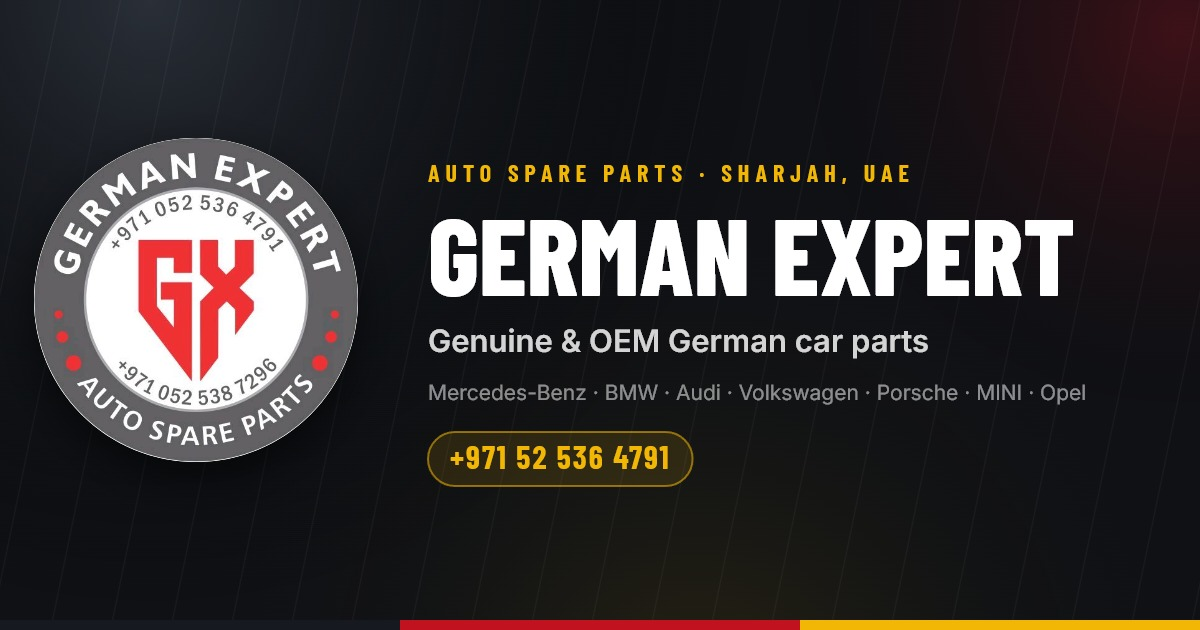
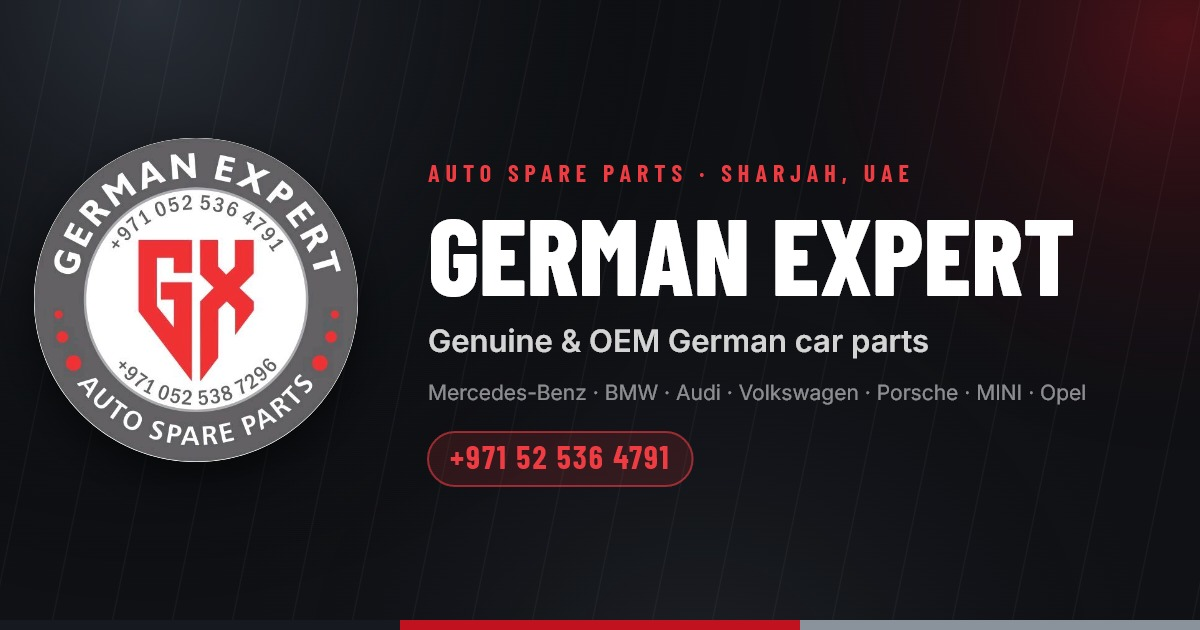
Retheme from gold to red
The logo is red, grey, white and black, and the site was gold — so the
accent now comes from the crest instead of fighting it. Surfaces were
already graphite/white/grey, so this is really gold -> red.

  --orange       #c1121f  accent on LIGHT surfaces, 6.2:1 on white
  --orange-dark  #8f0d17  hover
  --orange-light #ef3b42  brighter red for DARK surfaces, 4.5:1 on --bar
  --gold         #ef3b42  (name kept, like --orange, to avoid churn)

Two things a find-and-replace would have got wrong:

- --yellow shared gold's hex but is a STATUS colour (low stock, pending),
  so a blanket swap turned warnings red and collided with error red. It
  is now split off as amber #f59e0b and documented as not-the-accent.
- Gold is light, red is dark. Three rules set dark text on a gold
  background (hero CTA, admin login button, 404 button) and would have
  become unreadable; they now take white text on the deeper red.

The hero's studio key light was warm gold (#ffd36b), which tinted the
whole stage; it and the god rays are now neutral silver, so the hero
keeps the white/grey half of the palette rather than going all-red. The
model badge outline runs red -> white, and the share card was redrawn to
match (black/red/grey footer bar).

Checked contrast on the live DOM: hero and contact buttons 6.2:1, hero
tag 4.6:1, section tag 4.9:1, marquee 6.2:1, caption 18.9:1.

Changed region(s): [[0.37, 0.6635, 0.5858, 0.7841], [0.6475, 0.9651, 1.0, 1.0], [0.3392, 0.2413, 0.7708, 0.3016]]

diff --git a/code/css/01-base.css b/code/css/01-base.css
@@ -19,13 +19,14 @@
 }
 
 :root {
-  /* German Expert palette — graphite surfaces, brass/gold accent, German red for sale/alerts.
+  /* German Expert palette — graphite / white / grey surfaces with a single RED accent,
+     taken straight from the logo (red GX monogram on a grey ring).
      Token names are inherited from the Kuwait fork: --orange is the primary ACCENT
      (buttons with white text, accent text on light backgrounds), not literally orange. */
-  --orange: #a87b00;        /* brass: 4.8:1 against white */
-  --orange-dark: #7d5b00;
-  --orange-light: #f2b705;  /* bright German gold — for use on dark surfaces */
-  --gold: #f2b705;
+  --orange: #c1121f;        /* accent on LIGHT surfaces: 6.2:1 on white, carries white text */
+  --orange-dark: #8f0d17;
+  --orange-light: #ef3b42;  /* brighter red for DARK surfaces: 4.5:1 on --bar */
+  --gold: #ef3b42;
   --flag-red: #c1121f;
   --bar: #16191f;           /* header / footer / modal heads */
   --dark: #16191f;
@@ -39,7 +40,7 @@
   --gray-200: #dde1e6;
   --gray-400: #8a929c;
   --gray-600: #4b5563;
-  --yellow: #f2b705;
+  --yellow: #f59e0b;        /* status amber (low stock) — deliberately NOT the accent */
   --green: #16a34a;
   --red: #dc2626;
   --radius: 8px;
@@ -56,14 +57,14 @@ html { scroll-behavior: smooth; overflow-x: hidden; overflow-x: clip; touch-acti
    scroll. See _switchCategoryWithLoading in js/02-catalog-render.js. */
 .cat-load-overlay { position: fixed; inset: 0; z-index: 9000; background: var(--light); display: flex; align-items: center; justify-content: center; opacity: 0; visibility: hidden; pointer-events: none; transition: opacity .18s ease, visibility .18s ease; }
 .cat-load-overlay.show { opacity: 1; visibility: visible; pointer-events: all; }
-.cat-load-gear { display: block; width: 44px; height: 44px; border-radius: 50%; border: 5px solid var(--gray-200); border-top-color: var(--gold); border-right-color: var(--flag-red); animation: gear-spin .9s linear infinite; }
+.cat-load-gear { display: block; width: 44px; height: 44px; border-radius: 50%; border: 5px solid var(--gray-200); border-top-color: var(--gold); border-right-color: var(--charcoal); animation: gear-spin .9s linear infinite; }
 @keyframes gear-spin { to { transform: rotate(360deg); } }
 @media (prefers-reduced-motion: reduce) { .cat-load-gear { animation: none; } }
 * { touch-action: manipulation; }
 body { font-family: 'Inter', sans-serif; color: var(--dark); background: var(--light); overflow-x: hidden; overflow-x: clip; max-width: 100vw; overflow-wrap: break-word; word-break: break-word; }
 .container { max-width: 1240px; margin: 0 auto; padding: 0 24px; }
 .orange { color: var(--orange); }
-.section-tag { display: inline-block; background: rgba(168,123,0,0.09); color: var(--orange); font-size: 11px; font-weight: 700; letter-spacing: 1.5px; text-transform: uppercase; padding: 5px 14px; border-radius: 4px; margin-bottom: 10px; border: 1px solid rgba(168,123,0,0.2); }
+.section-tag { display: inline-block; background: rgba(193,18,31,0.09); color: var(--orange); font-size: 11px; font-weight: 700; letter-spacing: 1.5px; text-transform: uppercase; padding: 5px 14px; border-radius: 4px; margin-bottom: 10px; border: 1px solid rgba(193,18,31,0.2); }
 .section-header { text-align: center; margin-bottom: 48px; }
 .section-header h2 { font-size: clamp(22px, 3.5vw, 34px); font-weight: 800; color: var(--dark); line-height: 1.2; margin-top: 8px; }
 
@@ -129,7 +130,7 @@ body { font-family: 'Inter', sans-serif; color: var(--dark); background: var(--l
 /* Text on the LEFT — sits above overlay */
 .hero-content { flex: 0 0 56%; padding: 80px 40px 80px 0; padding-left: max(20px, calc((100vw - 1200px) / 2)); position: relative; z-index: 2; }
 
-.hero-tag { display: inline-flex; align-items: center; gap: 8px; background: rgba(168,123,0,0.18); color: var(--orange); font-size: 11px; font-weight: 800; letter-spacing: 2px; text-transform: uppercase; padding: 6px 14px; border-radius: 4px; margin-bottom: 22px; border: 1px solid rgba(168,123,0,0.35); }
+.hero-tag { display: inline-flex; align-items: center; gap: 8px; background: rgba(193,18,31,0.18); color: var(--orange); font-size: 11px; font-weight: 800; letter-spacing: 2px; text-transform: uppercase; padding: 6px 14px; border-radius: 4px; margin-bottom: 22px; border: 1px solid rgba(193,18,31,0.35); }
 .hero-content h1 { font-size: clamp(34px, 5.5vw, 62px); font-weight: 900; color: #fff; line-height: 1.08; margin-bottom: 18px; letter-spacing: -1px; }
 .hero-content h1 span { color: var(--orange); }
 .hero-content p { font-size: 16px; color: rgba(255,255,255,0.82); max-width: 480px; line-height: 1.75; margin-bottom: 36px; }
@@ -155,7 +156,7 @@ body { font-family: 'Inter', sans-serif; color: var(--dark); background: var(--l
 #hero .btn-primary { background: var(--orange); color: #fff; border-color: var(--orange); }
 #hero .btn-primary:hover { background: var(--orange-dark); border-color: var(--orange-dark); }
 #hero .btn-outline { color: #fff; border-color: rgba(255,255,255,0.6); }
-#hero .btn-outline:hover { background: rgba(168,123,0,0.25); border-color: #fff; color: #fff; }
+#hero .btn-outline:hover { background: rgba(193,18,31,0.25); border-color: #fff; color: #fff; }
 
 /* ── MARQUEE ─────────────────────────────────────────────────────────── */
 .marquee-wrap { background: var(--orange); padding: 11px 0; overflow: hidden; }

diff --git a/code/css/10-hero.css b/code/css/10-hero.css
@@ -22,7 +22,7 @@
 .ge-hero-bg {
   position: absolute; inset: 0; z-index: -1;
   background:
-    radial-gradient(55% 45% at 68% 80%, rgba(242,183,5,.18), transparent 70%),
+    radial-gradient(55% 45% at 68% 80%, rgba(239,59,66,.18), transparent 70%),
     radial-gradient(40% 55% at 95% 5%, rgba(193,18,31,.20), transparent 70%),
     radial-gradient(70% 80% at 15% 0%, #2b313a 0%, transparent 60%),
     linear-gradient(180deg, #16191f 0%, #0f1115 100%);
@@ -47,13 +47,13 @@
 .ge-hero:not(.no-car) .ge-hero-trust { justify-content: center; }
 
 /* ── Copy ── */
-.ge-hero-tag { display: inline-flex; align-items: center; gap: 8px; color: var(--gold); background: rgba(242,183,5,.08); border: 1px solid rgba(242,183,5,.28); font-size: 11px; font-weight: 800; letter-spacing: 2px; text-transform: uppercase; padding: 6px 14px; border-radius: 999px; margin-bottom: 22px; backdrop-filter: blur(6px); }
+.ge-hero-tag { display: inline-flex; align-items: center; gap: 8px; color: var(--gold); background: rgba(239,59,66,.08); border: 1px solid rgba(239,59,66,.28); font-size: 11px; font-weight: 800; letter-spacing: 2px; text-transform: uppercase; padding: 6px 14px; border-radius: 999px; margin-bottom: 22px; backdrop-filter: blur(6px); }
 .ge-hero-title { font-family: var(--font-display); font-weight: 800; text-transform: uppercase; font-size: clamp(40px, 4.6vw, 64px); line-height: 1; letter-spacing: .5px; margin-bottom: 20px; text-shadow: 0 4px 30px rgba(0,0,0,.45); }
 .ge-hero-title span { color: var(--gold); white-space: nowrap; }
 .ge-hero-text { font-size: 16px; line-height: 1.7; color: rgba(255,255,255,.78); max-width: 480px; margin-bottom: 32px; }
 .ge-hero-btns { display: flex; gap: 12px; flex-wrap: wrap; margin-bottom: 34px; }
-.ge-hero .btn-primary { background: var(--gold); border-color: var(--gold); color: #16191f; }
-.ge-hero .btn-primary:hover { background: #ffc928; border-color: #ffc928; }
+.ge-hero .btn-primary { background: var(--orange); border-color: var(--orange); color: #fff; }
+.ge-hero .btn-primary:hover { background: #e01b2b; border-color: #e01b2b; }
 .ge-btn-ghost { background: rgba(255,255,255,.06); color: #fff; border: 2px solid rgba(255,255,255,.35); backdrop-filter: blur(6px); }
 .ge-btn-ghost:hover { border-color: #fff; background: rgba(255,255,255,.12); }
 .ge-hero-trust { display: flex; flex-wrap: wrap; gap: 10px 22px; list-style: none; }
@@ -79,18 +79,18 @@
 .ge-car-model {
   position: absolute; left: 50%; top: 50%; transform: translate(-50%, -54%);
   width: min(96%, 1020px); height: 92%; z-index: 0; pointer-events: none; overflow: visible;
-  filter: drop-shadow(0 0 46px rgba(242, 183, 5, .14));
+  filter: drop-shadow(0 0 46px rgba(239,59,66, .14));
 }
 
 .ge-car-tilt { position: relative; z-index: 1; width: min(66%, 720px); transform-style: preserve-3d; transform: rotateX(var(--rx, 0deg)) rotateY(var(--ry, 0deg)); transition: transform .35s ease-out; }
 .ge-car-float { position: relative; animation: geCarFloat 6s ease-in-out infinite; }
 .ge-car-body { position: relative; display: block; transform: translateZ(40px); }
-.ge-car-img { display: block; width: 100%; height: auto; filter: drop-shadow(0 26px 24px rgba(0,0,0,.6)) drop-shadow(0 0 40px rgba(242,183,5,.10)); user-select: none; -webkit-user-drag: none; }
+.ge-car-img { display: block; width: 100%; height: auto; filter: drop-shadow(0 26px 24px rgba(0,0,0,.6)) drop-shadow(0 0 40px rgba(239,59,66,.10)); user-select: none; -webkit-user-drag: none; }
 /* Light sweep clipped to the car's own silhouette (mask = the same image) */
 .ge-car-sheen {
   position: absolute; inset: 0; pointer-events: none; mix-blend-mode: screen;
   -webkit-mask: var(--car) center / 100% 100% no-repeat; mask: var(--car) center / 100% 100% no-repeat;
-  background: linear-gradient(105deg, transparent 38%, rgba(255,255,255,.38) 48%, rgba(242,183,5,.22) 53%, transparent 62%);
+  background: linear-gradient(105deg, transparent 38%, rgba(255,255,255,.38) 48%, rgba(239,59,66,.22) 53%, transparent 62%);
   background-size: 300% 100%; animation: geCarSheen 6s ease-in-out infinite;
 }
 .ge-car-shadow { position: absolute; left: 10%; right: 10%; bottom: -4%; height: 16%; border-radius: 50%; background: radial-gradient(closest-side, rgba(0,0,0,.75), transparent); animation: geCarShadow 6s ease-in-out infinite; z-index: -1; }

diff --git a/code/css/07-modals.css b/code/css/07-modals.css
@@ -133,7 +133,7 @@
 .pm-badge-row { display:flex; gap:8px; margin-bottom:14px; flex-wrap:wrap; }
 .pm-badge { font-size:11px; font-weight:800; padding:5px 12px; border-radius:999px; text-transform:uppercase; letter-spacing:.8px; display:inline-flex; align-items:center; gap:6px; }
 .pm-badge.orange { background:var(--orange); color:#fff; }
-.pm-badge.cat { background:rgba(168,123,0,.08); color:var(--orange); border:1px solid rgba(168,123,0,.22); }
+.pm-badge.cat { background:rgba(193,18,31,.08); color:var(--orange); border:1px solid rgba(193,18,31,.22); }
 .pm-name { font-size:clamp(22px,2.6vw,30px); font-weight:800; color:var(--dark); line-height:1.2; margin:0 0 14px; overflow-wrap:anywhere; }
 .pm-meta { display:flex; align-items:center; flex-wrap:wrap; gap:10px; margin-bottom:18px; }
 .pm-price { display:flex; align-items:baseline; flex-wrap:wrap; gap:6px 8px; font-size:36px; font-weight:900; color:var(--dark); line-height:1.1; padding:16px 20px; background:var(--light); border:1px solid var(--border); border-radius:12px; margin-bottom:18px; }
@@ -154,8 +154,8 @@
 .pm-variant-block { margin-bottom:20px; }
 .pm-variant-tiles { display:grid; grid-template-columns:repeat(auto-fill,minmax(92px,1fr)); gap:10px; }
 .pm-variant-tile { border:2px solid var(--border); border-radius:10px; padding:6px; cursor:pointer; text-align:center; transition:border-color .15s,background .15s,box-shadow .15s; background:#fff; font-family:inherit; display:block; width:100%; min-height:44px; }
-.pm-variant-tile:hover { border-color:rgba(168,123,0,.45); }
-.pm-variant-tile.selected { border-color:var(--orange); background:rgba(168,123,0,.05); box-shadow:0 0 0 1px var(--orange); }
+.pm-variant-tile:hover { border-color:rgba(193,18,31,.45); }
+.pm-variant-tile.selected { border-color:var(--orange); background:rgba(193,18,31,.05); box-shadow:0 0 0 1px var(--orange); }
 .pm-variant-tile img { width:100%; aspect-ratio:1; object-fit:cover; border-radius:6px; display:block; margin-bottom:6px; background:var(--light); }
 .pm-variant-tile-noimg { width:100%; aspect-ratio:1; border-radius:6px; margin-bottom:6px; background:var(--light); color:var(--orange); display:flex; align-items:center; justify-content:center; font-size:22px; }
 .pm-variant-tile.pm-variant-tile-broken img { display:none; }
@@ -177,7 +177,7 @@
 .pm-qty-ctrl input[type="number"] { -moz-appearance:textfield; }
 .pm-add-btn { flex:1; min-height:52px; padding:0 20px; background:var(--orange); color:#fff; border:none; border-radius:10px; font-size:15px; font-weight:800; cursor:pointer; display:flex; align-items:center; justify-content:center; gap:10px; transition:background .2s,box-shadow .2s,transform .2s; text-transform:uppercase; letter-spacing:.5px; font-family:inherit; }
 .pm-buybox > .pm-add-btn { width:100%; }
-.pm-add-btn:hover:not(:disabled) { background:var(--orange-dark); box-shadow:0 8px 22px rgba(168,123,0,.3); transform:translateY(-1px); }
+.pm-add-btn:hover:not(:disabled) { background:var(--orange-dark); box-shadow:0 8px 22px rgba(193,18,31,.3); transform:translateY(-1px); }
 .pm-add-btn:active:not(:disabled) { transform:translateY(0); }
 .pm-add-btn:disabled { background:#e5e7eb; color:#6b7280; cursor:not-allowed; }
 .pm-add-btn.pm-wa-btn { background:#0b7a43; }
@@ -189,8 +189,8 @@
 .pm-wl-btn i { color:#a8a29e; transition:color .2s; }
 .pm-share-btn i { color:#16a34a; }
 .pm-review-btn i { color:#d97706; }
-.pm-wl-btn:hover,.pm-share-btn:hover,.pm-review-btn:hover { border-color:var(--orange); background:rgba(168,123,0,.04); }
-.pm-wl-btn.wishlisted { border-color:var(--orange); color:var(--orange); background:rgba(168,123,0,.05); }
+.pm-wl-btn:hover,.pm-share-btn:hover,.pm-review-btn:hover { border-color:var(--orange); background:rgba(193,18,31,.04); }
+.pm-wl-btn.wishlisted { border-color:var(--orange); color:var(--orange); background:rgba(193,18,31,.05); }
 .pm-wl-btn.wishlisted i { color:var(--orange); }
 /* Trust points */
 .pm-features { list-style:none; margin:0; padding:0; display:grid; grid-template-columns:repeat(2,minmax(0,1fr)); gap:10px; }

diff --git a/code/css/02-sections.css b/code/css/02-sections.css
@@ -2,9 +2,9 @@
 #about { padding: 88px 0; background: #fff; }
 .about-grid { display: grid; grid-template-columns: 1fr 1.4fr; gap: 72px; align-items: center; }
 .about-img-wrap { position: relative; }
-.about-img-card { width: 400px; max-width: 100%; height: auto; border-radius: 18px; padding: 28px; background: #fff; box-shadow: 0 10px 40px rgba(168,123,0,0.22); display: flex; align-items: center; justify-content: center; overflow: hidden; border: 1px solid var(--border); aspect-ratio: unset; }
+.about-img-card { width: 400px; max-width: 100%; height: auto; border-radius: 18px; padding: 28px; background: #fff; box-shadow: 0 10px 40px rgba(193,18,31,0.22); display: flex; align-items: center; justify-content: center; overflow: hidden; border: 1px solid var(--border); aspect-ratio: unset; }
 .about-img-card img { width: 100%; height: auto; object-fit: contain; border-radius: 50%; background: #fff; padding: 0; box-shadow: none; }
-.about-badge { position: absolute; bottom: -18px; right: -18px; background: var(--orange); color: #fff; font-size: 12px; font-weight: 800; letter-spacing: 0.5px; padding: 12px 18px; border-radius: 8px; box-shadow: 0 4px 16px rgba(168,123,0,0.35); display: flex; align-items: center; gap: 8px; text-transform: uppercase; }
+.about-badge { position: absolute; bottom: -18px; right: -18px; background: var(--orange); color: #fff; font-size: 12px; font-weight: 800; letter-spacing: 0.5px; padding: 12px 18px; border-radius: 8px; box-shadow: 0 4px 16px rgba(193,18,31,0.35); display: flex; align-items: center; gap: 8px; text-transform: uppercase; }
 .about-text h2 { font-size: clamp(22px, 3vw, 32px); font-weight: 800; color: var(--dark); margin-bottom: 16px; margin-top: 8px; line-height: 1.2; }
 .about-text p { color: var(--gray-600); line-height: 1.78; margin-bottom: 14px; font-size: 15px; }
 .about-features { list-style: none; margin: 20px 0 28px; display: flex; flex-direction: column; gap: 10px; }
@@ -34,7 +34,7 @@
 .categories-grid { display: grid; grid-template-columns: repeat(4, 1fr); gap: 16px; }
 .cat-card { background: linear-gradient(145deg, var(--steel) 0%, var(--charcoal) 100%); border: none; border-radius: var(--radius); padding: 0; text-align: center; cursor: pointer; transition: transform 0.25s, box-shadow 0.25s; position: relative; overflow: hidden; background-size: cover; background-position: center; min-height: 184px; display: flex; flex-direction: column; align-items: center; justify-content: center; box-shadow: 0 2px 10px rgba(0,0,0,0.12); }
 .cat-card::before { content: ''; position: absolute; inset: 0; background: linear-gradient(180deg, rgba(0,0,0,0.10) 0%, rgba(0,0,0,0.28) 55%, rgba(0,0,0,0.68) 100%); transition: background 0.25s; z-index: 1; }
-.cat-card:hover::before { background: rgba(168,123,0,0.72); }
+.cat-card:hover::before { background: rgba(193,18,31,0.72); }
 /* Hover "go" affordance — a small arrow chip, top-right */
 .cat-card::after { content: '\f061'; font-family: 'Font Awesome 6 Free'; font-weight: 900; position: absolute; top: 12px; right: 12px; z-index: 2; width: 30px; height: 30px; border-radius: 50%; background: rgba(255,255,255,0.20); backdrop-filter: blur(3px); -webkit-backdrop-filter: blur(3px); color: #fff; display: flex; align-items: center; justify-content: center; font-size: 12px; opacity: 0; transform: translateY(-4px); transition: opacity 0.25s, transform 0.25s; }
 .cat-card:hover::after { opacity: 1; transform: translateY(0); }

diff --git a/scripts/generate-product-pages.js b/scripts/generate-product-pages.js
@@ -311,14 +311,14 @@ function renderPage(p) {
     body{margin:0;font-family:system-ui,-apple-system,Segoe UI,Roboto,Arial,sans-serif;color:#1a1a1a;background:#f6f7f9}
     .p-header{display:flex;align-items:center;gap:10px;padding:14px 20px;background:#fff;border-bottom:1px solid #e5e7eb}
     .p-header img{height:34px;width:auto}
-    .p-header a{display:flex;align-items:center;gap:10px;text-decoration:none;color:#a87b00;font-weight:800;font-size:18px}
+    .p-header a{display:flex;align-items:center;gap:10px;text-decoration:none;color:#c1121f;font-weight:800;font-size:18px}
     main{max-width:960px;margin:0 auto;padding:22px 20px 60px}
     .crumb{font-size:13px;color:#6b7280;margin:4px 0 18px}
     .crumb a{color:#6b7280;text-decoration:none}
     .p-wrap{display:flex;gap:32px;flex-wrap:wrap;background:#fff;border:1px solid #e5e7eb;border-radius:14px;padding:24px}
     .p-img{width:min(420px,100%);height:auto;object-fit:contain;border-radius:10px;background:#fafafa;border:1px solid #eee}
     .p-info{flex:1;min-width:260px}
-    .p-brand{font-size:12px;font-weight:700;letter-spacing:.5px;color:#a87b00;text-transform:uppercase;margin:0 0 6px}
+    .p-brand{font-size:12px;font-weight:700;letter-spacing:.5px;color:#c1121f;text-transform:uppercase;margin:0 0 6px}
     h1{font-size:26px;line-height:1.25;margin:0 0 8px}
     .p-sku{font-size:12px;color:#9ca3af;margin:0 0 14px}
     .p-price{font-size:28px;font-weight:800;margin:0 0 4px}
@@ -331,7 +331,7 @@ function renderPage(p) {
     .p-variants-list{list-style:none;margin:0;padding:0;display:flex;flex-wrap:wrap;gap:8px}
     .p-variants-list li{font-size:13px;color:#374151;background:#f3f4f6;border:1px solid #e5e7eb;border-radius:8px;padding:6px 12px}
     .p-desc{font-size:15px;line-height:1.7;color:#374151;margin:0 0 22px;white-space:pre-line}
-    .p-btn{display:inline-block;background:#a87b00;color:#fff;text-decoration:none;font-weight:700;padding:13px 22px;border-radius:10px;font-size:15px}
+    .p-btn{display:inline-block;background:#c1121f;color:#fff;text-decoration:none;font-weight:700;padding:13px 22px;border-radius:10px;font-size:15px}
     .p-back{display:inline-block;margin-left:14px;color:#6b7280;text-decoration:none;font-size:14px}
     footer{max-width:960px;margin:0 auto;padding:24px 20px;color:#6b7280;font-size:13px;line-height:1.7}
     @media(max-width:640px){.p-wrap{padding:16px}h1{font-size:22px}}

diff --git a/code/js/08-hero.js b/code/js/08-hero.js
@@ -49,20 +49,20 @@ const HERO_CARS = [
 const HERO_ROTATE_MS = 6500;
 const HERO_SHADERS_URL = 'https://cdn.jsdelivr.net/npm/shaders@4.0.5/dist/js/bundle.js';
 
-// German palette: graphite studio, gold key light, red back wash.
+// German palette: graphite studio, neutral silver key light, red back wash.
 const HERO_SHADER_PRESET = {
   components: [
     { type: 'StudioBackground', props: {
-      color: '#1b1f26', keyColor: '#ffd36b', keyIntensity: 34, keySoftness: 62,
+      color: '#1b1f26', keyColor: '#eef1f5', keyIntensity: 34, keySoftness: 62,
       fillColor: '#8a95a5', fillIntensity: 12, fillSoftness: 75, fillAngle: 70,
       backColor: '#c1121f', backIntensity: 20, backSoftness: 85,
       brightness: 12, vignette: 25, center: { x: 0.7, y: 0.8 }, lightTarget: 85,
       wallCurvature: 18, ambientIntensity: 45, ambientSpeed: 1.2, seed: 7 } },
     { type: 'Godrays', props: {
       center: { x: 0.72, y: -0.15 }, density: 0.2, intensity: 0.4, spotty: 0.2, speed: 0.2,
-      rayColor: '#f2b705', blendMode: 'screen', opacity: 0.07 } },
+      rayColor: '#e8eaed', blendMode: 'screen', opacity: 0.07 } },
     { type: 'CursorTrail', props: {
-      colorA: '#f2b705', colorB: '#c1121f', radius: 0.7, length: 0.6, shrink: 1, softness: 0.85,
+      colorA: '#ef3b42', colorB: '#8a95a5', radius: 0.7, length: 0.6, shrink: 1, softness: 0.85,
       colorSpace: 'oklab', blendMode: 'screen', opacity: 0.3 } },
     { type: 'Vignette', props: { color: '#0f1115', center: { x: 0.55, y: 0.55 }, radius: 0.7, falloff: 0.65, intensity: 0.75 } },
     { type: 'FilmGrain', props: { strength: 0.04, bias: 3 } },
@@ -100,8 +100,8 @@ const HERO_SHADER_PRESET = {
             <defs>
               <linearGradient id="geModelGrad${i}" x1="0%" y1="100%" x2="100%" y2="0%">
                 <stop offset="0%" stop-color="#c1121f" />
-                <stop offset="52%" stop-color="#f2b705" />
-                <stop offset="100%" stop-color="#fff1c6" />
+                <stop offset="52%" stop-color="#ef3b42" />
+                <stop offset="100%" stop-color="#ffffff" />
               </linearGradient>
             </defs>
             <text x="${vbW / 2}" y="252" text-anchor="middle" fill="none" stroke="url(#geModelGrad${i})"

diff --git a/admin/css/01-layout.css b/admin/css/01-layout.css
@@ -1,5 +1,5 @@
     *,*::before,*::after{box-sizing:border-box;margin:0;padding:0}
-    :root{--orange:#a87b00;--orange-dark:#7d5b00;--gold:#f2b705;--bar:#16191f;--dark:#16191f;--charcoal:#0f1115;--steel:#1f242c;
+    :root{--orange:#c1121f;--orange-dark:#8f0d17;--gold:#ef3b42;--bar:#16191f;--dark:#16191f;--charcoal:#0f1115;--steel:#1f242c;
           --green:#22c55e;--red:#ef4444;--yellow:#f59e0b;--blue:#0ea5e9;--purple:#8b5cf6;
           --light:#f4f5f7;--white:#fff;--gray:#4b5563;--border:#dde1e6;}
     .top-bar{border-bottom:3px solid var(--gold) !important;}
@@ -17,7 +17,7 @@
     .login-sub{font-size:12px;color:rgba(255,255,255,0.4);margin-bottom:28px;text-transform:uppercase;letter-spacing:1px;}
     .login-box input{width:100%;padding:13px 16px;border:2px solid #2b313a;border-radius:8px;background:#0f1115;color:#fff;font-size:15px;font-family:inherit;outline:none;margin-bottom:12px;transition:border-color .2s;}
     .login-box input:focus{border-color:var(--orange);}
-    .login-btn{width:100%;padding:13px;background:var(--gold);color:#0f1115;border:none;border-radius:8px;font-size:15px;font-weight:800;cursor:pointer;text-transform:uppercase;letter-spacing:1px;}
+    .login-btn{width:100%;padding:13px;background:var(--orange);color:#fff;border:none;border-radius:8px;font-size:15px;font-weight:800;cursor:pointer;text-transform:uppercase;letter-spacing:1px;}
     .login-btn:hover{background:var(--orange-dark);}
     .login-error{color:var(--red);font-size:13px;margin-top:10px;display:none;}
     .forgot-link{color:rgba(255,255,255,0.35);font-size:12px;margin-top:14px;display:block;text-align:center;cursor:pointer;transition:color .2s;}

diff --git a/admin/index.html b/admin/index.html
@@ -602,7 +602,7 @@
         <!-- bahar row -->
         <div class="su-user-row" style="margin-bottom:10px">
           <div style="display:flex;align-items:center;gap:12px">
-            <div style="width:40px;height:40px;background:rgba(168,123,0,.12);border-radius:10px;display:flex;align-items:center;justify-content:center;font-size:18px">🔧</div>
+            <div style="width:40px;height:40px;background:rgba(193,18,31,.12);border-radius:10px;display:flex;align-items:center;justify-content:center;font-size:18px">🔧</div>
             <div>
               <div style="font-weight:800;font-size:14px;color:var(--dark)">expert</div>
               <div style="font-size:11px;color:var(--gray);text-transform:uppercase;letter-spacing:.5px">Admin Account</div>
@@ -1085,7 +1085,7 @@
       <div class="su-card-h"><i class="fa fa-users"></i> Admin Account Control</div>
       <div class="su-user-row">
         <div style="display:flex;align-items:center;gap:12px">
-          <div style="width:40px;height:40px;background:rgba(168,123,0,.12);border-radius:10px;display:flex;align-items:center;justify-content:center;font-size:18px">🔧</div>
+          <div style="width:40px;height:40px;background:rgba(193,18,31,.12);border-radius:10px;display:flex;align-items:center;justify-content:center;font-size:18px">🔧</div>
           <div>
             <div style="font-weight:800;font-size:14px;color:var(--dark)">expert</div>
             <div style="font-size:11px;color:var(--gray);text-transform:uppercase;letter-spacing:.5px">Admin Account</div>

diff --git a/code/css/03-cart-features-contact.css b/code/css/03-cart-features-contact.css
@@ -56,12 +56,12 @@
 
 /* ── INTRO LOGO ──────────────────────────────────────────────────────────── */
 .intro-logo-row { display: flex; align-items: center; justify-content: center; gap: 14px; margin-bottom: 18px; }
-.intro-logo-img { height: 72px; width: auto; object-fit: contain; border-radius: 50%; background: transparent; padding: 0; box-shadow: 0 4px 18px rgba(168,123,0,0.3); }
+.intro-logo-img { height: 72px; width: auto; object-fit: contain; border-radius: 50%; background: transparent; padding: 0; box-shadow: 0 4px 18px rgba(193,18,31,0.3); }
 .intro-brand-txt { font-size: 32px; font-weight: 900; color: var(--orange); letter-spacing: 5px; text-transform: uppercase; line-height: 1; }
 
 /* CONTACT LOGO */
 .contact-logo-row { display: flex; align-items: center; gap: 12px; margin-bottom: 18px; }
-.contact-logo-img { height: 58px; width: auto; object-fit: contain; border-radius: 50%; background: transparent; padding: 0; box-shadow: 0 4px 16px rgba(168,123,0,0.28); }
+.contact-logo-img { height: 58px; width: auto; object-fit: contain; border-radius: 50%; background: transparent; padding: 0; box-shadow: 0 4px 16px rgba(193,18,31,0.28); }
 .contact-brand-txt { font-size: 26px; font-weight: 900; color: var(--orange); letter-spacing: 4px; text-transform: uppercase; line-height: 1; }
 
 /* MODAL LOGO */

diff --git a/index.html b/index.html
@@ -173,7 +173,7 @@
   <style>
     #pagePreloader { position: fixed; inset: 0; z-index: 99999; background: #0f1115; display: flex; align-items: center; justify-content: center; transition: opacity .35s ease, visibility .35s ease; }
     #pagePreloader.hide { opacity: 0; visibility: hidden; pointer-events: none; }
-    #pagePreloader .preloader-gear { width: 72px; height: 72px; border-radius: 50%; border: 6px solid rgba(255,255,255,.12); border-top-color: #f2b705; border-right-color: #c1121f; animation: preloader-spin .9s linear infinite; }
+    #pagePreloader .preloader-gear { width: 72px; height: 72px; border-radius: 50%; border: 6px solid rgba(255,255,255,.12); border-top-color: #ef3b42; border-right-color: #c1121f; animation: preloader-spin .9s linear infinite; }
     @keyframes preloader-spin { to { transform: rotate(360deg); } }
     @media (prefers-reduced-motion: reduce) { #pagePreloader .preloader-gear { animation: none; } }
     #pagePreloader .visually-hidden { position: absolute; width: 1px; height: 1px; padding: 0; margin: -1px; overflow: hidden; clip: rect(0,0,0,0); white-space: nowrap; border: 0; }

diff --git a/code/css/05-responsive.css b/code/css/05-responsive.css
@@ -45,13 +45,13 @@
   #hero .btn-primary { background: var(--orange); color: #fff; border-color: var(--orange); }
   #hero .btn-primary:hover { background: var(--orange-dark); }
   #hero .btn-outline { color: #fff; border-color: rgba(255,255,255,0.6); }
-  #hero .btn-outline:hover { background: rgba(168,123,0,0.25); border-color: #fff; }
+  #hero .btn-outline:hover { background: rgba(193,18,31,0.25); border-color: #fff; }
   .hero-btns { margin-bottom: 36px; }
   .hero-stats { gap: 20px; }
   .stat span { font-size: 22px; color: #fff; }
   .stat small { color: rgba(255,255,255,0.7); }
   .stat small { color: var(--gray-400); }
-  .hero-tag { background: rgba(168,123,0,0.1); border-color: rgba(168,123,0,0.25); }
+  .hero-tag { background: rgba(193,18,31,0.1); border-color: rgba(193,18,31,0.25); }
 
   /* Sections */
   #about, #categories, #products, #contact, #features { padding: 60px 0; }

diff --git a/404.html b/404.html
@@ -17,7 +17,7 @@
     served at any depth.
   -->
   <style>
-    :root { --gold: #f2b705; --red: #c1121f; --ink: #0f1115; --panel: #1a1d23; --muted: #9aa3ae; }
+    :root { --gold: #ef3b42; --red: #c1121f; --ink: #0f1115; --panel: #1a1d23; --muted: #9aa3ae; }
     * { box-sizing: border-box; }
     body {
       margin: 0; min-height: 100vh; display: flex; flex-direction: column;
@@ -41,7 +41,7 @@
       text-decoration: none; transition: opacity .15s;
     }
     .btn:hover { opacity: 0.88; }
-    .btn-primary { background: var(--gold); color: var(--ink); }
+    .btn-primary { background: var(--red); color: #fff; }
     .btn-secondary { background: transparent; color: #fff; border: 1.5px solid rgba(255,255,255,.25); }
     footer { padding: 20px; text-align: center; color: var(--muted); font-size: 12px; }
   </style>
